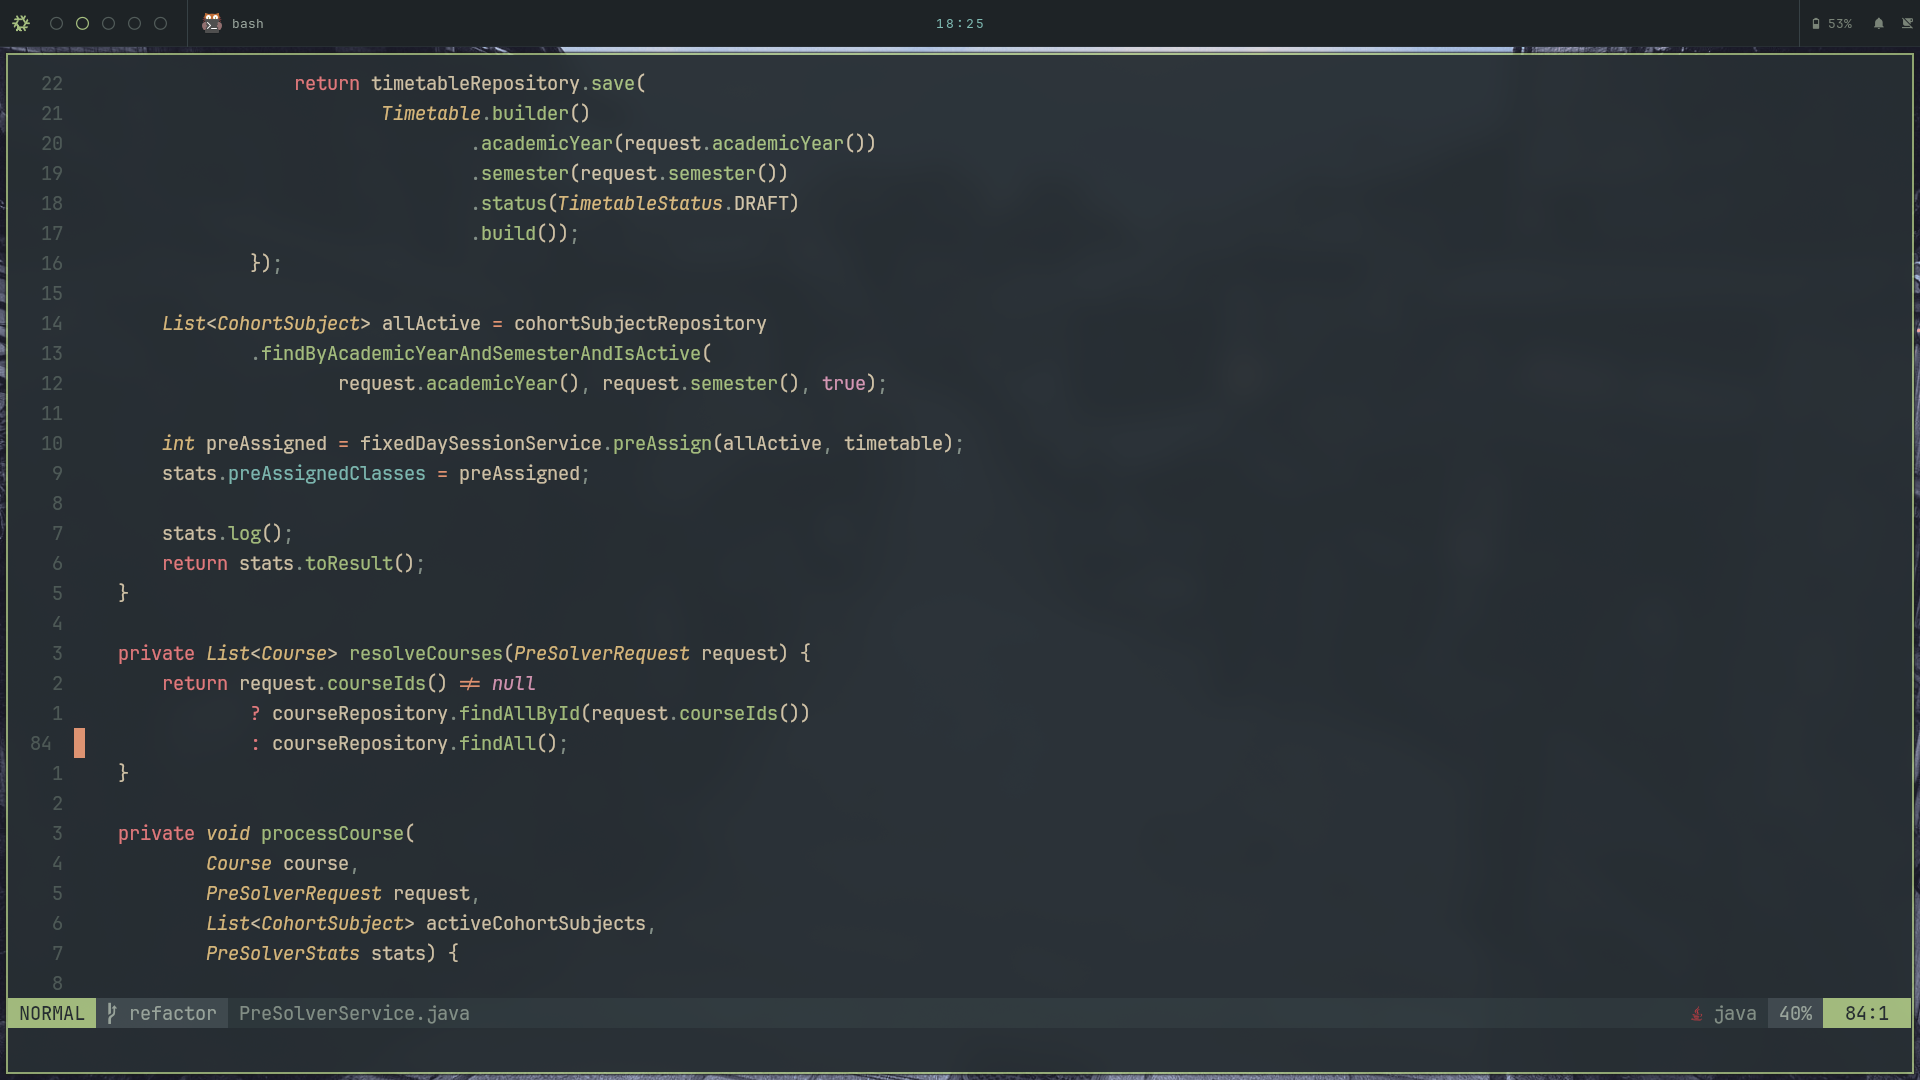
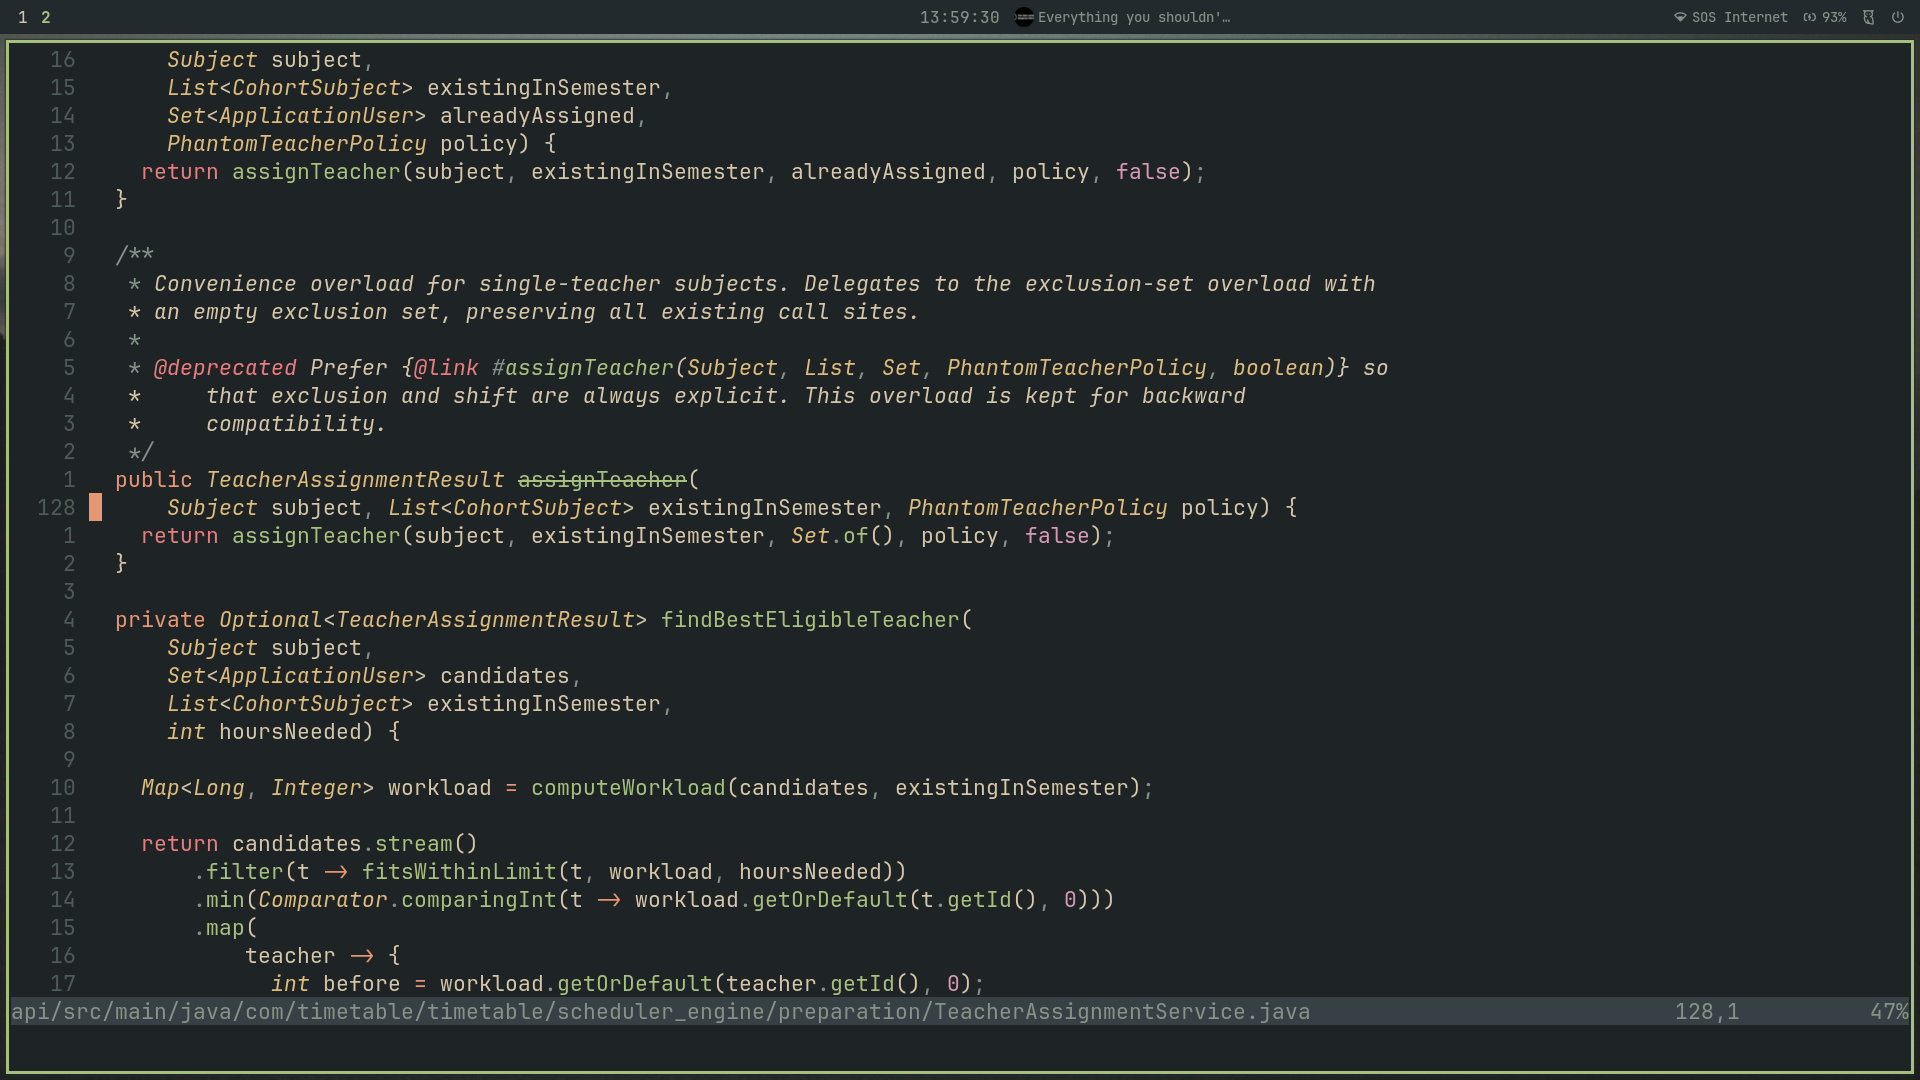
docs update

diff --git a/README.md b/README.md
@@ -8,7 +8,6 @@ A modular NixOS and Home Manager configuration.
 
 ### System Roles (`modules/role/`)
 Hosts select from reusable roles to ensure lean installations:
-- **hyprland**: Tiling compositor, greetd (tuigreet), and Wayland compatibility.
 - **dev**: Docker, build tools, and essential CLI utilities.
 - **gaming**: Steam, Heroic, Lutris, and performance optimizations.
 - **bluetooth**: Bluetooth stack and management tools.
@@ -26,7 +25,6 @@ Modular Home Manager environment:
 
 ## Key Features
 
-- **Theming**: **Stylix** manages the base color palette (Everforest) and fonts centrally. Manual control is retained for Noctalia and Nixvim for granular styling.
 - **Unified Shell**: **Noctalia** consolidates the bar, notification daemon, and app launcher into a single configurable layer, cutting down on the number of moving parts compared to a Waybar/Dunst/Fuzzel setup.
 - **Terminal**: **Ghostty** is the primary terminal, configured via `dotfiles/ghostty`.
 - **Declarative Editor**: Neovim is configured via **nixvim**, split into logical modules (`plugins.nix`, `lsp.nix`, etc.).
